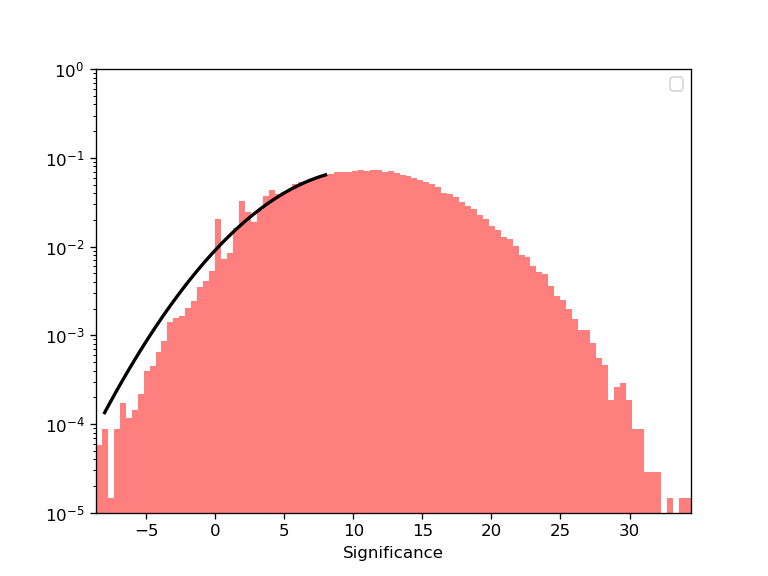
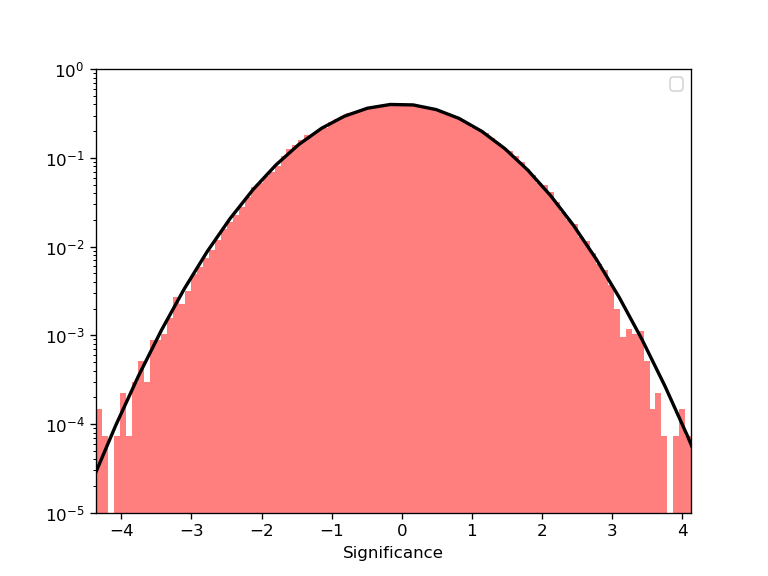
Minor changes

diff --git a/validation/event-sampling/make.py b/validation/event-sampling/make.py
@@ -415,9 +415,8 @@ def plot_residual_distribution(dataset, obs_id):
     model = dataset.models[0]
 
     tophat_2D_kernel = Tophat2DKernel(5)
-    l_m = lima(dataset.counts, dataset.npred(), tophat_2D_kernel)
-    significance = l_m['significance'].sum_over_axes()
-    sig_resid = significance.data[np.isfinite(significance.data)]
+    l_m = lima(dataset.counts.sum_over_axes(keepdims=False), dataset.npred().sum_over_axes(keepdims=False), tophat_2D_kernel)
+    sig_resid = l_m["significance"].data[np.isfinite(l_m["significance"].data)]
 
 #    resid = dataset.residuals()
 #    sig_resid = resid.data[np.isfinite(resid.data)]
